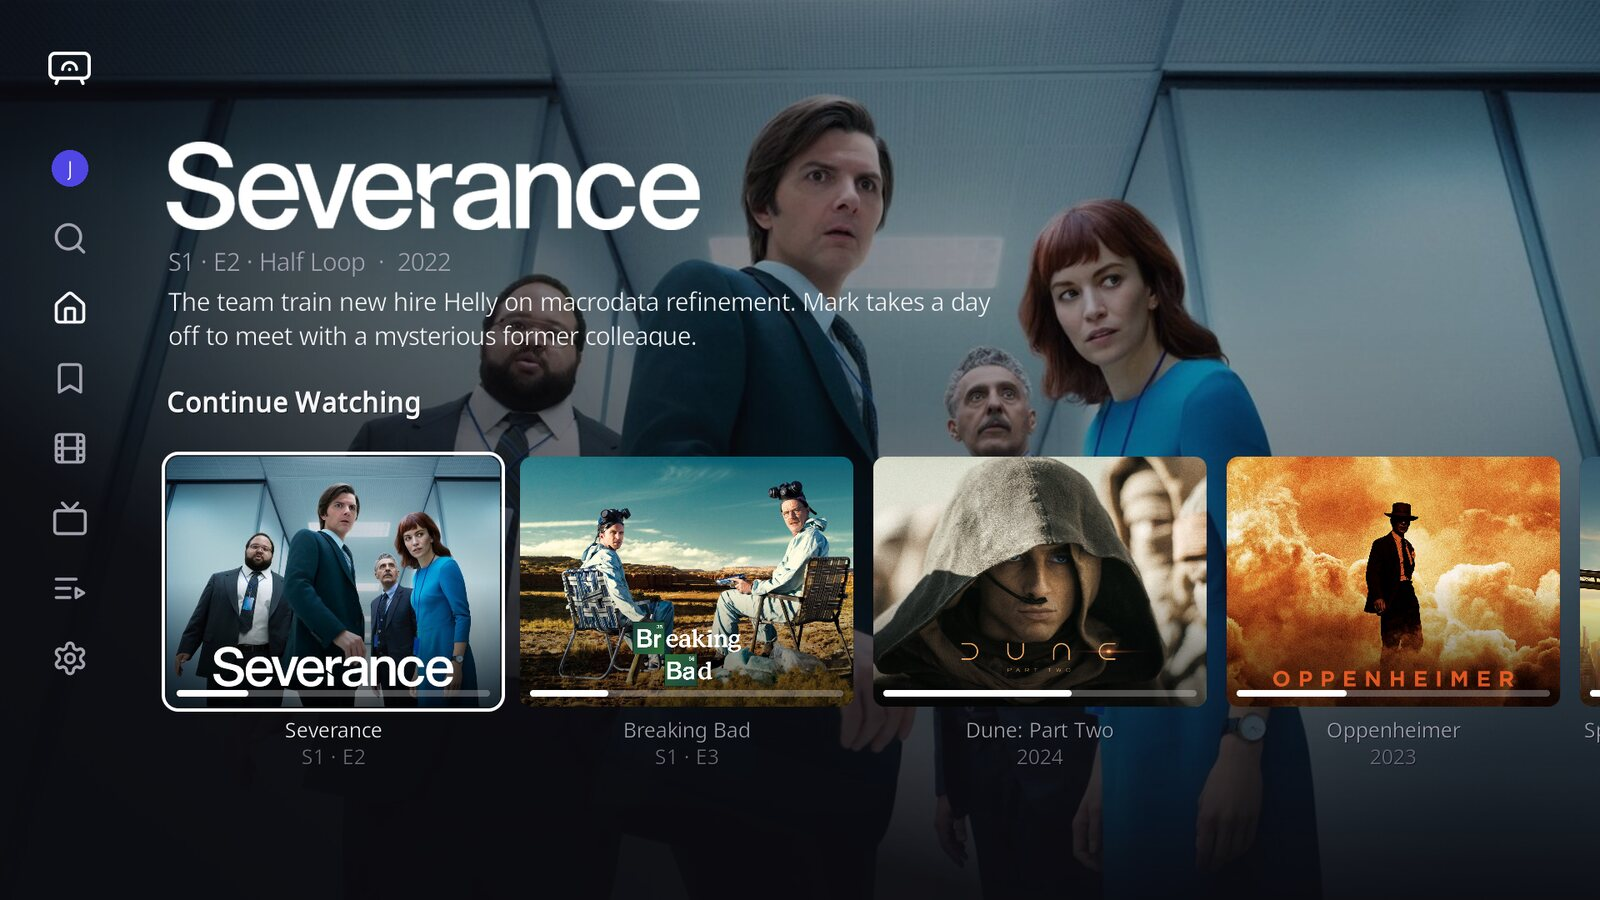
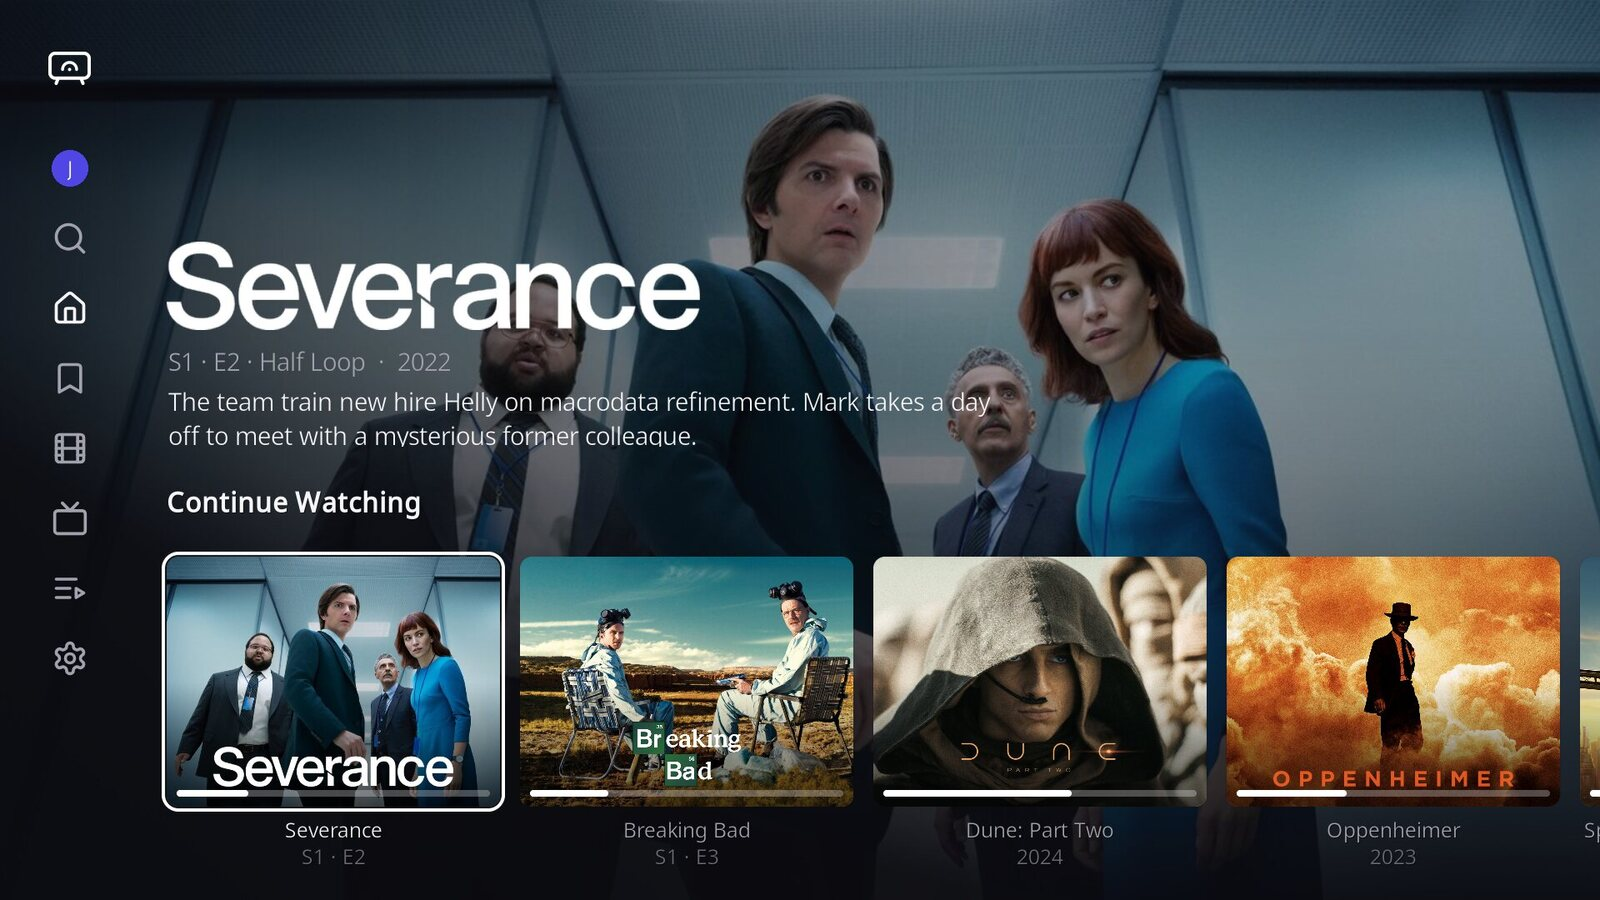
Lower Home's first row and open Kodi's own Player Info on request
Thumb and backdrop rows on Home take a 500-high slot and the hero fills the
rest, so Continue Watching sits at the foot of the screen as on Android. A
second press of Info or O (or the panel's new button) swaps Arc's Player Info
for Kodi's own Player Process Info, which Arc no longer closes while it was
asked for.

diff --git a/resources/lib/kodi/player_osd.py b/resources/lib/kodi/player_osd.py
@@ -52,7 +52,7 @@ INFO_IMAGE, INFO_TITLE, RESTART, PREVIOUS, INFO_OVERVIEW, INFO_META, INFO_HOW, I
 CHAPTERS_LIST, CAST_LIST, EPISODES_LIST = 531, 541, 551
 CARD_FOCUS = {"info": RESTART, "chapters": CHAPTERS_LIST, "cast": CAST_LIST, "episodes": EPISODES_LIST}
 CONTROLS, MENU = 200, 600
-INFO, INFO_LIST, INFO_BACK = 850, 852, 853   # Player Info's panel (700s are the lobby's)
+INFO, INFO_LIST, INFO_BACK, INFO_KODI = 850, 852, 853, 854   # Player Info's panel (700s are the lobby's)
 INFO_ROW, INFO_EVERY = 40, 1.0              # its rows; how often it reads Kodi again (seconds)
 INFO_NAMES = {"video": 30461, "decoder": 30462, "picture": 30463, "pixformat": 30464, "hdr": 30465,
               "deint": 30466, "dolby_vision": 30467, "dv_profile": 30468, "dv_layers": 30469,
@@ -159,6 +159,7 @@ class PlayerControls(xbmcgui.WindowXMLDialog):
         self._up_next = False
         self._was_paused = False    # for showing the controls when playback pauses
         self._info_at = None        # Player Info: when it last read Kodi (None while closed)
+        self._kodi_info = False     # Kodi's own Player Process Info is open in its place
         self._card = None           # the tab whose card is open ("info", ...), or None
         self._tabs = ["info"]       # the tabs that show
         self._details = None        # the whole title (its cast and files), fetched once per title
@@ -228,6 +229,11 @@ class PlayerControls(xbmcgui.WindowXMLDialog):
         # Keep ordinary film errors visible.
         if self.pb.preroll_pending or self.pb.preroll_active:
             dialogs += ("okdialog",)
+        if getattr(self, "_kodi_info", False):
+            if xbmc.getCondVisibility("Window.IsVisible(playerprocessinfo)"):
+                dialogs = tuple(d for d in dialogs if d != "playerprocessinfo")
+            else:
+                self._kodi_info = False   # Kodi closed it itself
         for name in dialogs:
             if xbmc.getCondVisibility("Window.IsVisible(%s)" % name):
                 xbmc.executebuiltin("Dialog.Close(%s,true)" % name)
@@ -803,10 +809,27 @@ class PlayerControls(xbmcgui.WindowXMLDialog):
         if self._info_at is None:
             self._draw_info()
             self.setProperty("arc.info", "1")
+            self._focus(INFO_KODI)
             log.debug("player info shown")
         else:
             self._info_at = None
             self.setProperty("arc.info", "")
+            self.setFocusId(CATCHER)
+
+    def _open_kodi_info(self):
+        """Kodi's own Player Process Info in place of Arc's panel (CoreELEC's shows more). Arc's
+        window stays open but shows nothing over it; Back, Info or O closes it."""
+        if self._info_at is not None:
+            self._toggle_info()
+        self._hide()
+        self._kodi_info = True
+        if not xbmc.getCondVisibility("Window.IsVisible(playerprocessinfo)"):
+            xbmc.executebuiltin("ActivateWindow(playerprocessinfo)")
+        log.debug("Kodi's player info shown")
+
+    def _close_kodi_info(self):
+        self._kodi_info = False
+        xbmc.executebuiltin("Dialog.Close(playerprocessinfo,true)")
 
     def _draw_info(self):
         """Reads what Kodi's player reports now and shows it (once a second while open)."""
@@ -830,7 +853,8 @@ class PlayerControls(xbmcgui.WindowXMLDialog):
                 li.setProperty("key", e[1])
                 items.append(li)
             ctrl.addItems(items)
-            self.getControl(INFO_BACK).setHeight(76 + len(entries) * INFO_ROW + 24)
+            self.getControl(INFO_BACK).setHeight(76 + len(entries) * INFO_ROW + 24 + 96)
+            self.getControl(INFO_KODI).setPosition(40, 76 + len(entries) * INFO_ROW + 24)
         except Exception as e:
             log.debug("player info not drawn (%s)", type(e).__name__)
 
@@ -892,6 +916,8 @@ class PlayerControls(xbmcgui.WindowXMLDialog):
             self._invite_more()
         elif control_id == LOBBY_LEAVE:
             self.pb.stop()
+        elif control_id == INFO_KODI:
+            self._open_kodi_info()
         elif control_id == SKIP and self._marker:
             end = self._marker.get("end_ms") or 0
             self._skipped.add(self._marker.get("start_ms"))
@@ -948,8 +974,20 @@ class PlayerControls(xbmcgui.WindowXMLDialog):
             if code in A_BACK:
                 self.pb.stop()   # closing the player leaves the room
             return               # the lobby's buttons move by themselves; Select is onClick
+        if self._kodi_info:
+            # Kodi's dialog is over the video; Arc's window still hears the keys first.
+            if code in A_BACK or code in A_PROCESS_INFO or code in A_INFO:
+                self._close_kodi_info()
+            return
+        if code in A_INFO and self._info_at is not None:
+            self._open_kodi_info()   # the remote's Info button while Arc's panel shows
+            return
         if code in A_PROCESS_INFO:
-            self._toggle_info()
+            # The first press opens Arc's Player Info; a second, Kodi's own.
+            if self._info_at is None:
+                self._toggle_info()
+            else:
+                self._open_kodi_info()
             return
         if code in A_BACK:
             if self._menu is not None:

diff --git a/resources/lib/kodi/windows/home.py b/resources/lib/kodi/windows/home.py
@@ -36,6 +36,7 @@ HERO_LOGO = 62
 HERO_TITLE = 63
 HERO_INFO = 64
 HERO_OVERVIEW = 65
+HERO_GROUP, HERO_TEXT_GROUP = 67, 68
 
 # Watch Together's row, first while there are rooms (it shows only once it has cards).
 TOGETHER_ROW = {"id": "together", "source": ("together",), "style": homerows.THUMB, "season_posters": False}
@@ -116,6 +117,13 @@ class HomeWindow(ArcWindow):
         return None
 
     def _layout_rows(self):
+        # The hero fills the screen above the first row, its text moving down with it.
+        height = homerows.hero_height(self.rows[0].get("style") if self.rows else homerows.POSTER)
+        try:
+            self.getControl(HERO_GROUP).setHeight(height)
+            self.getControl(HERO_TEXT_GROUP).setPosition(8, height - homerows.HERO_TEXT)
+        except Exception:
+            pass
         for i in range(MAX_ROWS):
             if i < len(self.rows):
                 self.set_label(self._bases(self.rows[i])[1] + 1 + i, self._row_title(self.rows[i]))

diff --git a/resources/lib/arc/home.py b/resources/lib/arc/home.py
@@ -210,3 +210,15 @@ def card_art(c, style, season_posters=False):
     if style == THUMB:
         return c.get("thumb")
     return c.get("backdrop")
+
+
+# Home's rows (skin/script-arc-home.xml): a poster row's slot is 620 high, a thumb or backdrop
+# row's 500. The hero takes the rest of the screen above the first row, so that row sits at the
+# foot of the screen, as Android's; the hero's text block (404 high) ends where the hero does.
+ROW_HEIGHTS = {POSTER: 620, THUMB: 500, BACKDROP: 500}
+HERO_TEXT = 404
+
+
+def hero_height(first_style, screen=1080):
+    """The hero's height above a first row of `first_style`."""
+    return screen - ROW_HEIGHTS.get(first_style, ROW_HEIGHTS[POSTER])

diff --git a/tests/test_home.py b/tests/test_home.py
@@ -92,3 +92,9 @@ def test_card_title_is_the_show_for_an_episode():
     assert home.card_title(ep) == "Severance"
     assert home.card_title({"kind": "episode", "title": "Half Loop"}) == "Half Loop"
     assert home.card_title({"kind": "movie", "title": "Dune: Part Two"}) == "Dune: Part Two"
+
+
+def test_hero_leaves_the_first_row_at_the_foot():
+    from arc import home
+    assert home.hero_height(home.THUMB) == 580 and home.hero_height(home.BACKDROP) == 580
+    assert home.hero_height(home.POSTER) == 460 and home.hero_height(None) == 460

diff --git a/docs/changes/2026-11-21-kodi-batch-5.md b/docs/changes/2026-11-21-kodi-batch-5.md
@@ -15,6 +15,16 @@
 8. **Search:** movies and shows together as **Top Results**, alternating, as Android's (Kodi's
    letter grid stays).
 
+9. **Home:** the first row sits at the foot of the screen, as Android's: a thumb or backdrop
+   row (Continue Watching) has a 500-high slot instead of 620, and the hero takes the rest above
+   it (`arc/home.py` `hero_height`), its text moving down with it. Checked at 1920x1080: the
+   captions end about 40 px above the bottom edge.
+10. **Kodi's Player Info:** a second press of O or Info while Arc's panel shows, or its new
+    "Kodi's Player Info" button, closes Arc's panel and opens Kodi's own Player Process Info
+    (CoreELEC's shows more, such as Dolby Vision FEL/MEL). Arc's player stops closing that
+    dialog while it was asked for, and hides its own controls; Back, Info or O closes it and
+    returns to playback.
+
 ## Decisions
 
 - The TMDB credit has to stay reachable (TMDB's terms), so About now opens it.
@@ -23,9 +33,12 @@
 
 ## Checks
 
-- `python3 -m pytest -q`: 179 passed. `python3 tools/check.py`: all good.
+- `python3 -m pytest -q`: 180 passed. `python3 tools/check.py`: all good.
 - Kodi 20.5 under Xvfb against the shared screenshot library: before/after for profiles, Home,
   search, film and Settings in this folder (README screenshots retaken too).
+- **The owner needs to check item 10 on the Ugoos**: that Kodi's dialog no longer flashes,
+  that it opens over Arc's player and that Back returns to playback. Arc's player window is a
+  modal dialog that hears keys first, so it closes Kodi's dialog itself on Back, Info or O.
 - Not seen on screen: the Player Info panel and passthrough (no playback under Xvfb), and the
   sort menu. Nothing tried on real hardware, so the blue panel on the Ugoos is unconfirmed.
 
